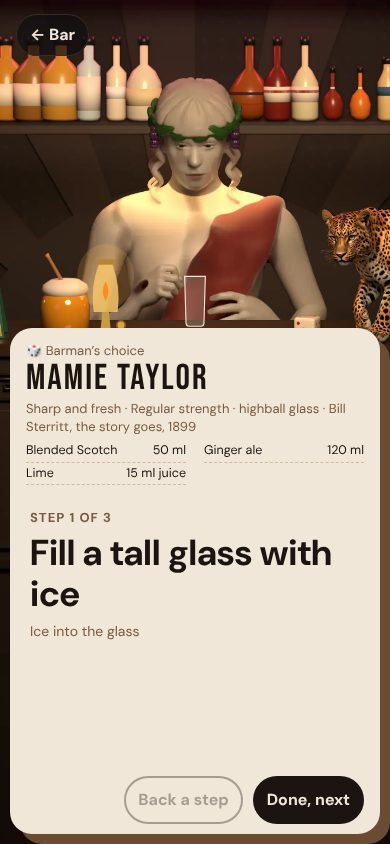
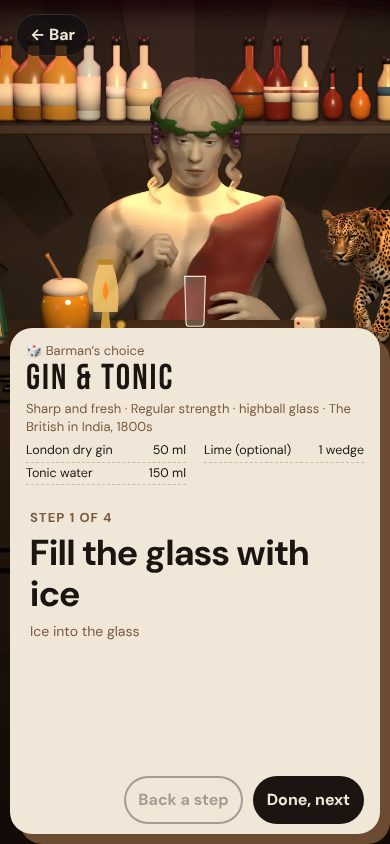
Prototype E: Dionysus layer fixes from review (reduced-motion still, steps started while loading, missing frames, late finish choice, per-loop fallback)
Claude-Session: https://claude.ai/code/session_017R8H9iuAveyEEqtevtzZsK

diff --git a/prototypes/e-rendered/dio-layer.js b/prototypes/e-rendered/dio-layer.js
@@ -34,15 +34,36 @@ function makeDio(root) {
   const q = new URLSearchParams(location.search);
   const svgDio = SvgDio(root);
   if (q.get('dio') === 'svg') { svgDio.shown(true); return svgDio; }
-  // B's figure stays hidden (it acts on, unseen, so a step in progress keeps its promise) while the loops load.
-  // It is shown if they fail, or haven't shown their first frames after FALLBACK_MS; hidden again once they do.
+  // B's figure is hidden from the start (index.html) and acts on, unseen, while the loops load. It is shown if they
+  // fail, or haven't shown their first frames after FALLBACK_MS; hidden again once they do. At the takeover the
+  // loops pick up what it was doing: polishing, a story, or a recipe step (whose promise they then keep).
   let cur = svgDio; const loops = LoopDio(root);
+  let doing = { k: 'idle' };   // the last thing asked of him; for a step: action, ctx and the app's resolver
   const timer = setTimeout(() => { if (cur === svgDio) svgDio.shown(true); }, FALLBACK_MS);
   fetch(q.get('loops') || 'dio-loops.json').then(r => { if (!r.ok) throw new Error(r.status); return r.json(); })
-    .then(m => loops.load(m)).then(() => { clearTimeout(timer); svgDio.shown(false, true); loops.copyState(cur); cur = loops; })
+    .then(m => loops.load(m)).then(() => {
+      clearTimeout(timer); svgDio.shown(false, true); cur = loops;
+      if (doing.k === 'perform') {
+        const d = doing, p = loops.perform(d.action, d.ctx);
+        if (svgDio.acting) p.then(v => { if (doing === d) d.res(v); });   // still acting: the loops finish the step
+      } else loops[doing.k]();
+    })
     .catch(e => { clearTimeout(timer); console.warn('Dionysus loops not loaded (' + e.message + '); showing the drawn figure.'); loops.fail(); svgDio.shown(true); });
-  const api = {};
-  ['idle', 'story', 'perform', 'lookUp', 'setLook', 'tick', 'headRect'].forEach(k => { api[k] = (...a) => { if (k === 'setLook' || k === 'lookUp') { svgDio[k](...a); loops[k](...a); } return cur[k](...a); }; });
+  const drop = () => { if (doing.res) doing.res(false); };   // a step begun on the drawn figure, superseded
+  const api = {
+    idle() { drop(); doing = { k: 'idle' }; return cur.idle(); },
+    story() { drop(); doing = { k: 'story' }; return cur.story(); },
+    perform(action, ctx) {
+      drop();
+      if (cur === loops) { doing = { k: 'perform', action, ctx }; return loops.perform(action, ctx); }
+      const d = { k: 'perform', action, ctx }; doing = d;
+      return new Promise(res => { d.res = v => { if (d.res) { d.res = null; res(v); } }; svgDio.perform(action, ctx).then(v => { if (doing === d && cur === svgDio) d.res(v); }); });
+    },
+    lookUp(on) { svgDio.lookUp(on); loops.lookUp(on); },
+    setLook(L) { svgDio.setLook(L); loops.setLook(L); },
+    tick(t, dt) { return cur.tick(t, dt); },
+    headRect() { return cur.headRect(); },
+  };
   Object.defineProperty(api, 'kind', { get: () => cur.kind });
   Object.defineProperty(api, 'acting', { get: () => cur.acting });
   Object.defineProperty(api, 'el', { get: () => cur.el });
@@ -290,62 +311,77 @@ function LoopDio(root) {
   let M = null, cur = null, f = 0, ft = 0, actT = 0, done = null, ready = false, imgEl = null, vid = null, waiting = false;
   let fin = 'painted', want = 'painted', S = null;   // finish shown, finish asked for, its loop set
   const cache = {};
-  function preload(src) { if (cache[src]) return cache[src]; const im = new Image(); im.src = src; cache[src] = im.decode().catch(() => {}); return cache[src]; }
-  const setOf = k => (M && k !== 'painted' && M.finishes && M.finishes[k] && M.finishes[k].loops) || (M && M.loops) || {};
+  // resolves to true once decoded, false if the frame can't load (not cached, so a later call tries again)
+  function preload(src) {
+    if (cache[src]) return cache[src];
+    const im = new Image(); im.src = src;
+    return cache[src] = im.decode().then(() => true, () => { delete cache[src]; return false; });
+  }
+  const allOk = srcs => Promise.all(srcs.map(preload)).then(r => r.every(Boolean));
   const finOf = k => (M && k !== 'painted' && M.finishes && M.finishes[k] && M.finishes[k].loops) ? k : 'painted';
-  const resolve = (set, name) => set[name] ? name : set[LOOP_FALLBACK[name]] ? LOOP_FALLBACK[name] : 'polish';
-  const firstFrames = set => Object.values(set).map(L => L.frames ? L.frames[0] : null).filter(Boolean);
-  const allFrames = (set, name) => { const L = set[resolve(set, name)]; return L && L.frames ? L.frames : []; };
-  function show(src) { if (imgEl) imgEl.setAttribute('href', src); }
+  const setOf = k => k === 'painted' ? M.loops : M.finishes[k].loops;
+  // the loop a name plays in a set: itself, its LOOP_FALLBACK, the default finish's of either, then polish
+  function pick(set, name) {
+    for (const n of [name, LOOP_FALLBACK[name]].filter(Boolean)) { if (set[n]) return { name: n, L: set[n] }; if (M.loops[n]) return { name: n, L: M.loops[n] }; }
+    return set.polish ? { name: 'polish', L: set.polish } : M.loops.polish ? { name: 'polish', L: M.loops.polish } : null;
+  }
   const still = L => Math.min(L.hold || Math.floor(L.frames.length / 2), L.frames.length - 1);
+  const startF = L => RM ? still(L) : 0;   // the frame set() shows first
+  const firstFrames = set => DIO_LOOPS.map(n => pick(set, n)).filter(p => p && p.L.frames).map(p => p.L.frames[startF(p.L)]);
+  const framesFor = (set, name) => { const p = pick(set, name); return p && p.L.frames ? (RM ? [p.L.frames[startF(p.L)]] : p.L.frames) : []; };
+  function show(src) { if (imgEl) imgEl.setAttribute('href', src); }
+  function hitPath() {   // taps land on his shape, not on the frame's transparent box (which would cover the shelf behind him)
+    const [, y, , h] = M.rect, hd = M.head, hit = document.createElementNS(NS, 'path');
+    const hx = hd[0] + hd[2] / 2 - OX, hy = hd[1] - OY;
+    hit.setAttribute('d', `M${hx - hd[2] / 2} ${hy + hd[3] * .45} a${hd[2] / 2} ${hd[3] * .45} 0 1 1 ${hd[2]} 0 L${hx + 115} ${hy + hd[3] * 1.05} L${hx + 120} ${y + h - OY} L${hx - 120} ${y + h - OY} L${hx - 115} ${hy + hd[3] * 1.05} Z`);
+    hit.setAttribute('fill', 'transparent'); g.appendChild(hit);
+    const tmp = root.querySelector('#dioHit'); if (tmp) tmp.style.display = 'none';   // index.html's stand-in while loading
+  }
   function build(L) {   // the <image> (or video) for a loop
     const [x, y, w, h] = M.rect;
     if (L.video) {
       g.innerHTML = '';
       const fo = document.createElementNS(NS, 'foreignObject'); fo.setAttribute('x', x - OX); fo.setAttribute('y', y - OY); fo.setAttribute('width', w); fo.setAttribute('height', h);
+      fo.setAttribute('pointer-events', 'none');
       vid = document.createElement('video'); vid.src = L.video; vid.muted = true; vid.playsInline = true; vid.autoplay = !RM; vid.style.cssText = 'width:100%;height:100%';
-      vid.onended = () => { vid.currentTime = cur.L.hold || 0; vid.play(); finish(); };
-      fo.appendChild(vid); g.appendChild(fo); imgEl = null;
+      if (RM) vid.onloadedmetadata = () => { vid.currentTime = L.hold || 0; vid.pause(); };   // a single still
+      else vid.onended = () => { vid.currentTime = cur.L.hold || 0; vid.play(); finish(); };
+      fo.appendChild(vid); g.appendChild(fo); imgEl = null; hitPath();
     } else if (!imgEl || !imgEl.isConnected) {
       g.innerHTML = ''; imgEl = document.createElementNS(NS, 'image');
       imgEl.setAttribute('x', x - OX); imgEl.setAttribute('y', y - OY); imgEl.setAttribute('width', w); imgEl.setAttribute('height', h);
       imgEl.setAttribute('preserveAspectRatio', 'none'); imgEl.setAttribute('pointer-events', 'none'); g.appendChild(imgEl); vid = null;
-      // taps land on his shape, not on the frame's transparent box (which would cover the shelf behind him)
-      const hd = M.head, hit = document.createElementNS(NS, 'path');
-      const hx = hd[0] + hd[2] / 2 - OX, hy = hd[1] - OY;
-      hit.setAttribute('d', `M${hx - hd[2] / 2} ${hy + hd[3] * .45} a${hd[2] / 2} ${hd[3] * .45} 0 1 1 ${hd[2]} 0 L${hx + 115} ${hy + hd[3] * 1.05} L${hx + 120} ${y + h - OY} L${hx - 120} ${y + h - OY} L${hx - 115} ${hy + hd[3] * 1.05} Z`);
-      hit.setAttribute('fill', 'transparent'); g.appendChild(hit);
-      const tmp = root.querySelector('#dioHit'); if (tmp) tmp.style.display = 'none';   // index.html's stand-in while loading
+      hitPath();
     }
   }
   function set(name, oneShot) {
     if (!M) return;
-    const real = resolve(S, name); if (!S[real]) return;
-    cur = { name, L: S[real], oneShot }; f = 0; ft = 0; actT = 0; waiting = false;
+    const p = pick(S, name); if (!p) return;
+    cur = { name, L: p.L, real: p.name, oneShot }; f = 0; ft = 0; actT = 0; waiting = false;
     build(cur.L);
-    if (cur.L.frames) { cur.L.frames.forEach(preload); f = RM ? still(cur.L) : 0; show(cur.L.frames[f]); }
+    if (cur.L.frames) { if (!RM) cur.L.frames.forEach(preload); f = startF(cur.L); show(cur.L.frames[f]); }
   }
   // swap to the frame set of `k` in place, keeping the loop, its frame and its step state (oneShot, waiting, actT)
   function swap(k) {
     fin = k; S = setOf(k);
     if (!cur) return;
-    const L = S[resolve(S, cur.name)]; if (!L) return;
-    const wasVideo = !!cur.L.video; cur.L = L;
-    if (L.video || wasVideo) { build(L); if (L.video) return; }
-    f = RM ? still(L) : Math.min(f, L.frames.length - 1); show(L.frames[f]);
+    const p = pick(S, cur.name); if (!p) return;
+    const wasVideo = !!cur.L.video; cur.L = p.L; cur.real = p.name;
+    if (p.L.video || wasVideo) { build(p.L); if (p.L.video) return; }
+    f = RM ? still(p.L) : Math.min(f, p.L.frames.length - 1); show(p.L.frames[f]);
   }
   function switchTo(k) {   // lazy: wait for the new finish's frames for the current loop, then swap
     want = k;
-    if (!ready) return;
+    if (!ready) return;     // load() picks it up
     k = finOf(k); if (k === fin) return;
     const T = setOf(k);
-    const need = () => cur ? allFrames(T, cur.name) : [];
     firstFrames(T).forEach(preload);
-    const wait = () => { const n = need(), name = cur && cur.name; return Promise.all(n.map(preload)).then(() => (cur && cur.name !== name) ? wait() : null); };
-    wait().then(() => {
+    const wait = () => { const name = cur && cur.name; return allOk(cur ? framesFor(T, name) : []).then(ok => (cur && cur.name !== name) ? wait() : ok); };
+    wait().then(ok => {
       if (finOf(want) !== k) return;    // asked for another finish meanwhile
+      if (!ok) { console.warn(`Dionysus: the ${k} frames didn't load; staying ${fin}.`); return; }
       swap(k);
-      Object.values(T).forEach(L => (L.frames || []).forEach(preload));
+      if (!RM) Object.values(T).forEach(L => (L.frames || []).forEach(preload));
     });
   }
   function finish() { if (done) { const d = done; done = null; d(true); } }
@@ -353,13 +389,14 @@ function LoopDio(root) {
     kind: 'loops', el: g,
     load(m) {
       M = m; fin = finOf(want); S = setOf(fin);
-      return Promise.all(firstFrames(S).map(preload)).then(() => {
+      return allOk(firstFrames(S)).then(ok => {
+        if (!ok) throw new Error('first frames missing');
         ready = true;
         set('polish');
-        Object.values(S).forEach(L => (L.frames || []).forEach(preload));
+        if (!RM) Object.values(S).forEach(L => (L.frames || []).forEach(preload));
+        if (finOf(want) !== fin) switchTo(want);   // a setLook that came while the first frames loaded
       });
     },
-    copyState() {},
     fail() { g.remove(); },
     idle() { set('polish'); }, story() { set('story'); },
     perform(action, ctx) {
@@ -372,7 +409,7 @@ function LoopDio(root) {
     lookUp() {},
     setLook(L) { switchTo((L && L.finish) || 'painted'); },
     get finish() { return fin; },
-    get loop() { return cur ? resolve(S, cur.name) : null; },
+    get loop() { return cur ? cur.real : null; },
     tick(t, dt) {
       if (!cur || !imgEl || RM) return;
       const fr = cur.L.frames, fps = cur.L.fps || 12;
